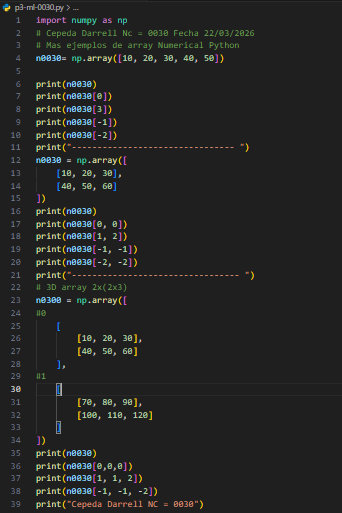
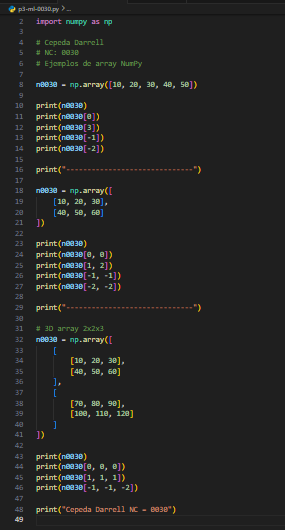
Add files via upload

diff --git a/p3-ml-0030.py b/p3-ml-0030.py
@@ -1,39 +1,48 @@
+
 import numpy as np
-# Cepeda Darrell Nc = 0030 Fecha 22/03/2026
-# Mas ejemplos de array Numerical Python
-n0030= np.array([10, 20, 30, 40, 50])
+
+# Cepeda Darrell
+# NC: 0030
+# Ejemplos de array NumPy
+
+n0030 = np.array([10, 20, 30, 40, 50])
 
 print(n0030)
 print(n0030[0])
 print(n0030[3])
 print(n0030[-1])
 print(n0030[-2])
-print("-------------------------------- ")
+
+print("------------------------------")
+
 n0030 = np.array([
     [10, 20, 30],
     [40, 50, 60]
 ])
+
 print(n0030)
 print(n0030[0, 0])
 print(n0030[1, 2])
 print(n0030[-1, -1])
 print(n0030[-2, -2])
-print("--------------------------------- ")
-# 3D array 2x(2x3)
-n0300 = np.array([
-#0
+
+print("------------------------------")
+
+# 3D array 2x2x3
+n0030 = np.array([
     [
         [10, 20, 30],
         [40, 50, 60]
     ],
-#1
     [
         [70, 80, 90],
         [100, 110, 120]
     ]
 ])
+
 print(n0030)
 print(n0030[0, 0, 0])
-print(n0030[1, 1, 2])
+print(n0030[1, 1, 1])
 print(n0030[-1, -1, -2])
+
 print("Cepeda Darrell NC = 0030")
